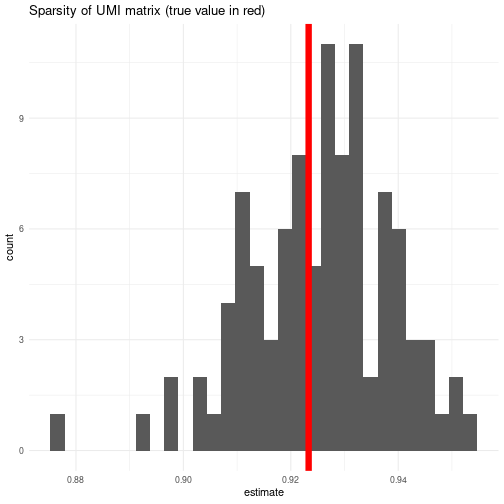
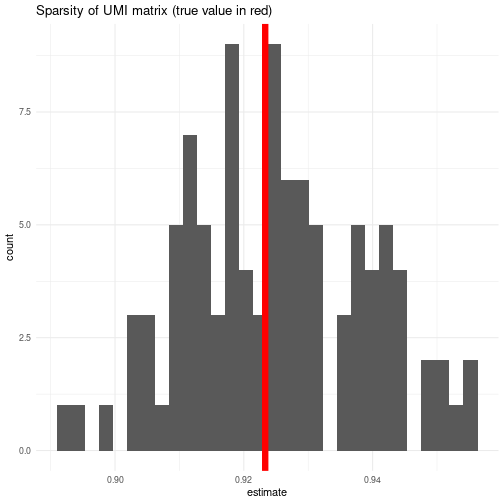
Tidy up a few more bits for clarity

diff --git a/vignettes/project2_chunks/project2_tim.md b/vignettes/project2_chunks/project2_tim.md
@@ -285,7 +285,7 @@ as_tibble(tidybarnyard) %>%           # "turn the colData into a tibble"
 
 # your cell:
 show(aCell) 
-#> [1] "Mixture2.inDrops.GTTCTGCT-AAGAGCGT-TAACCATC"
+#> [1] "Mixture1.inDrops.CAGATGGG-TATCCTCT-AGTTTAGA"
 
 # does that mean we can ask for a random gene with certain attributes?
 as_tibble(rowData(tidybarnyard)) %>%  # "turn the rowData into a tibble"
@@ -295,7 +295,7 @@ as_tibble(rowData(tidybarnyard)) %>%  # "turn the rowData into a tibble"
 
 # your gene:
 show(aGene) 
-#> [1] "mm10_ENSMUSG00000030061_mm10_Uba3"
+#> [1] "mm10_ENSMUSG00000095706_mm10_Olfr209"
 
 # how many copies of this random gene were found in this random cell? 
 counts(tidybarnyard)[aGene, aCell]    # UMI counts for a given [gene, cell]. 
@@ -333,7 +333,7 @@ samples <- (length(aHundredCells) * length(aHundredGenes))
 nonzero <- nnzero(counts(tidybarnyard)[aHundredGenes, aHundredCells])
 sparsity_hat <- (samples - nonzero) / samples 
 sparsity_hat # estimated sparsity
-#> [1] 0.9239
+#> [1] 0.9301
 
 # In fact, we can use this scheme to look at sampling error:
 sample_sparsity <- function(object, cells=100, genes=100) { 
@@ -721,7 +721,7 @@ mfit <- Mclust(logit(barnyardtibble[, c("fracmouse","frachuman")]),
 table(mfit$classification) # it turns out that we end up with less human cells
 #> 
 #>    1    2    3 
-#> 1114 1106 1979
+#> 1941 2116  142
 barnyardtibble$mclass <- factor(mfit$classification)
 
 # plot the results
@@ -761,17 +761,17 @@ barnyardtibble %>%
 with(barnyardtibble, table(mixlabel, label))
 #>          label
 #> mixlabel  human mouse suspect
-#>   human    1076     0      30
-#>   mouse       0  1721     258
-#>   suspect   867     0     247
+#>   human    1925     0     191
+#>   mouse       0  1716     225
+#>   suspect    18     5     119
 
 # specifically, do we label all the human and mouse cells confidently?
 with(barnyardtibble, table(mixlabel, label))[, c("human", "mouse")]
 #>          label
 #> mixlabel  human mouse
-#>   human    1076     0
-#>   mouse       0  1721
-#>   suspect   867     0
+#>   human    1925     0
+#>   mouse       0  1716
+#>   suspect    18     5
 ```
 
 How did we do? 
@@ -967,7 +967,7 @@ library(ggforce)
 
 # for better resolution, you could resample batches of 500, 1000, ... 
 results %>% 
-#  mutate(method = fct_reorder(method, desc(success), .fun='median')) %>% 
+  mutate(method = fct_reorder(method, desc(success), .fun='median')) %>% 
   ggplot(aes(method, success, color=method)) + 
             scale_y_continuous(labels = scales::label_percent()) + 
             ylab("classification performance") +
@@ -979,10 +979,10 @@ results %>%
 
 ![plot of chunk sinaplot](figure/sinaplot-1.png)
 
-_Question:_ I commented out a line in the plot above. Would it make it clearer?
+_Question:_ What does `fct_reorder` (from the `forcats` package) do above?
 
 You might conclude that we could directly compute confidence intervals from the 
-above results. You would be correct. Let's do this in a tidy-ish fashion:
+above results. You would be correct. Let's do this tidily:
 
 
 ```r
